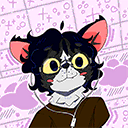
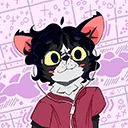
fix footer

diff --git a/src/pages/Homepage.tsx b/src/pages/Homepage.tsx
@@ -35,7 +35,6 @@ const Homepage: Component<{}, {}> = function () {
 					))}
 				</section>
 				<footer class="card">
-						<Logo />
 						<div>
 							<p>
 								Legal request? Contact{" "}
@@ -50,15 +49,15 @@ const Homepage: Component<{}, {}> = function () {
 								<a href="mailto:support@mercurywork.shop">support@mercurywork.shop</a>
 							</p>
 						</div>
+						<span class="konami">
+							<svg xmlns="http://www.w3.org/2000/svg" height="0.5em" viewBox="0 0 1021.2 71.6">
+								<path
+									fill="#fff4"
+									d="M808.7 70.7H773v-9.6h9.4V10.3H773V.7h35.5q6.3 0 11 2.15a18.3 18.3 0 0 1 4.859 3.188 16.4 16.4 0 0 1 2.491 2.912q2.65 3.95 2.65 9.35v1a21 21 0 0 1-.252 3.353q-.29 1.792-.913 3.269a11 11 0 0 1-.635 1.278q-1.8 3.1-4.35 4.8t-4.85 2.4V36a13 13 0 0 1 2.079.745q1.014.456 2.087 1.108a25 25 0 0 1 .784.497q2.65 1.75 4.5 4.85 1.53 2.564 1.795 6.427a25 25 0 0 1 .055 1.673v1a20.8 20.8 0 0 1-.535 4.829A15.8 15.8 0 0 1 827.1 62.2q-2.7 4.1-7.45 6.3a23.4 23.4 0 0 1-6.46 1.884 31 31 0 0 1-4.49.316m-776.4 0h-10V18.9l.7-4.4-1.5-.5-2.4 3.7L6.6 30.3 0 23.7 23.7 0h7.2l23.7 23.7-6.6 6.6-12.5-12.6-2.4-3.7-1.5.5.7 4.4zm87.5 0h-10V18.9l.7-4.4-1.5-.5-2.4 3.7-12.5 12.6-6.6-6.6L111.2 0h7.2l23.7 23.7-6.6 6.6L123 17.7l-2.4-3.7-1.5.5.7 4.4zm86.1.7h-7.2L175 47.7l6.6-6.6 12.5 12.6 2.4 3.7 1.5-.5-.7-4.4V.7h10v51.8l-.7 4.4 1.5.5 2.4-3.7L223 41.1l6.6 6.6zm87.5 0h-7.2l-23.7-23.7 6.6-6.6 12.5 12.6 2.4 3.7 1.5-.5-.7-4.4V.7h10v51.8l-.7 4.4 1.5.5 2.4-3.7 12.5-12.6 6.6 6.6zm87.1-6.3-6.6 6.5-23.2-23.1v-6.8l23.2-23.2 6.6 6.6-12.2 12.1-3.7 2.4.5 1.5 4.4-.7h51.8v9.4h-51.8l-4.4-.7-.5 1.5 3.7 2.4zm146.9-16.6-23.2 23.1-6.6-6.5L509.8 53l3.7-2.4-.5-1.5-4.4.7h-51.8v-9.4h51.8l4.4.7.5-1.5-3.7-2.4-12.2-12.1 6.6-6.6 23.2 23.2zm64.1 16.6-6.6 6.5-23.2-23.1v-6.8l23.2-23.2 6.6 6.6-12.2 12.1-3.7 2.4.5 1.5 4.4-.7h51.8v9.4h-51.8l-4.4-.7-.5 1.5 3.7 2.4zm146.9-16.6-23.2 23.1-6.6-6.5L720.8 53l3.7-2.4-.5-1.5-4.4.7h-51.8v-9.4h51.8l4.4.7.5-1.5-3.7-2.4-12.2-12.1 6.6-6.6 23.2 23.2zm133.7 22.2h-11.2l20-70h19l19.9 70h-11.1l-4.6-16.5h-27.4zm17.5-63.3-10.2 36.8h22L891.2 7.4zm-96.3 33v20.5h14.1a18 18 0 0 0 3.423-.304q1.981-.381 3.538-1.242A9.7 9.7 0 0 0 815.9 58.3q3.1-2.6 3.1-7.2v-.9a11.1 11.1 0 0 0-.411-3.108A8.3 8.3 0 0 0 815.95 43q-3.05-2.6-8.55-2.6zm0-29.9v20h14.1a16.6 16.6 0 0 0 3.407-.329q2.237-.468 3.952-1.601a10 10 0 0 0 .841-.62 8.33 8.33 0 0 0 3.068-6.075A12 12 0 0 0 818.7 21v-1q0-4.4-3.05-6.95a10.4 10.4 0 0 0-3.979-2.026q-1.915-.524-4.271-.524zm187.1 54.6-6.6 6.5-23.2-23.1v-6.8l23.2-23.2 6.6 6.6-12.2 12.1-3.7 2.4.5 1.5 4.4-.7h42.4V18.5h9.4v31.3h-51.8l-4.4-.7-.5 1.5 3.7 2.4z"
+								/>
+							</svg>
+						</span>
 				</footer>
-				<span class="konami">
-					<svg xmlns="http://www.w3.org/2000/svg" height="0.5em" viewBox="0 0 1021.2 71.6">
-						<path
-							fill="#fff4"
-							d="M808.7 70.7H773v-9.6h9.4V10.3H773V.7h35.5q6.3 0 11 2.15a18.3 18.3 0 0 1 4.859 3.188 16.4 16.4 0 0 1 2.491 2.912q2.65 3.95 2.65 9.35v1a21 21 0 0 1-.252 3.353q-.29 1.792-.913 3.269a11 11 0 0 1-.635 1.278q-1.8 3.1-4.35 4.8t-4.85 2.4V36a13 13 0 0 1 2.079.745q1.014.456 2.087 1.108a25 25 0 0 1 .784.497q2.65 1.75 4.5 4.85 1.53 2.564 1.795 6.427a25 25 0 0 1 .055 1.673v1a20.8 20.8 0 0 1-.535 4.829A15.8 15.8 0 0 1 827.1 62.2q-2.7 4.1-7.45 6.3a23.4 23.4 0 0 1-6.46 1.884 31 31 0 0 1-4.49.316m-776.4 0h-10V18.9l.7-4.4-1.5-.5-2.4 3.7L6.6 30.3 0 23.7 23.7 0h7.2l23.7 23.7-6.6 6.6-12.5-12.6-2.4-3.7-1.5.5.7 4.4zm87.5 0h-10V18.9l.7-4.4-1.5-.5-2.4 3.7-12.5 12.6-6.6-6.6L111.2 0h7.2l23.7 23.7-6.6 6.6L123 17.7l-2.4-3.7-1.5.5.7 4.4zm86.1.7h-7.2L175 47.7l6.6-6.6 12.5 12.6 2.4 3.7 1.5-.5-.7-4.4V.7h10v51.8l-.7 4.4 1.5.5 2.4-3.7L223 41.1l6.6 6.6zm87.5 0h-7.2l-23.7-23.7 6.6-6.6 12.5 12.6 2.4 3.7 1.5-.5-.7-4.4V.7h10v51.8l-.7 4.4 1.5.5 2.4-3.7 12.5-12.6 6.6 6.6zm87.1-6.3-6.6 6.5-23.2-23.1v-6.8l23.2-23.2 6.6 6.6-12.2 12.1-3.7 2.4.5 1.5 4.4-.7h51.8v9.4h-51.8l-4.4-.7-.5 1.5 3.7 2.4zm146.9-16.6-23.2 23.1-6.6-6.5L509.8 53l3.7-2.4-.5-1.5-4.4.7h-51.8v-9.4h51.8l4.4.7.5-1.5-3.7-2.4-12.2-12.1 6.6-6.6 23.2 23.2zm64.1 16.6-6.6 6.5-23.2-23.1v-6.8l23.2-23.2 6.6 6.6-12.2 12.1-3.7 2.4.5 1.5 4.4-.7h51.8v9.4h-51.8l-4.4-.7-.5 1.5 3.7 2.4zm146.9-16.6-23.2 23.1-6.6-6.5L720.8 53l3.7-2.4-.5-1.5-4.4.7h-51.8v-9.4h51.8l4.4.7.5-1.5-3.7-2.4-12.2-12.1 6.6-6.6 23.2 23.2zm133.7 22.2h-11.2l20-70h19l19.9 70h-11.1l-4.6-16.5h-27.4zm17.5-63.3-10.2 36.8h22L891.2 7.4zm-96.3 33v20.5h14.1a18 18 0 0 0 3.423-.304q1.981-.381 3.538-1.242A9.7 9.7 0 0 0 815.9 58.3q3.1-2.6 3.1-7.2v-.9a11.1 11.1 0 0 0-.411-3.108A8.3 8.3 0 0 0 815.95 43q-3.05-2.6-8.55-2.6zm0-29.9v20h14.1a16.6 16.6 0 0 0 3.407-.329q2.237-.468 3.952-1.601a10 10 0 0 0 .841-.62 8.33 8.33 0 0 0 3.068-6.075A12 12 0 0 0 818.7 21v-1q0-4.4-3.05-6.95a10.4 10.4 0 0 0-3.979-2.026q-1.915-.524-4.271-.524zm187.1 54.6-6.6 6.5-23.2-23.1v-6.8l23.2-23.2 6.6 6.6-12.2 12.1-3.7 2.4.5 1.5 4.4-.7h42.4V18.5h9.4v31.3h-51.8l-4.4-.7-.5 1.5 3.7 2.4z"
-						/>
-					</svg>
-				</span>
 			</article>
 		</main>
 	);
@@ -88,12 +87,19 @@ Homepage.style = css`
 		flex-direction: column;
 		gap: 0.25rem;
 		font-size: 1.1rem;
-		text-align: right;
+		text-align: left;
 	}
 
 	.konami {
 		display: flex;
 		justify-content: center;
+	}
+
+	@media (orientation: portrait) {
+	    footer {
+					flex-direction: column;
+					gap: .5rem;
+			}
 	}
 `;
 
